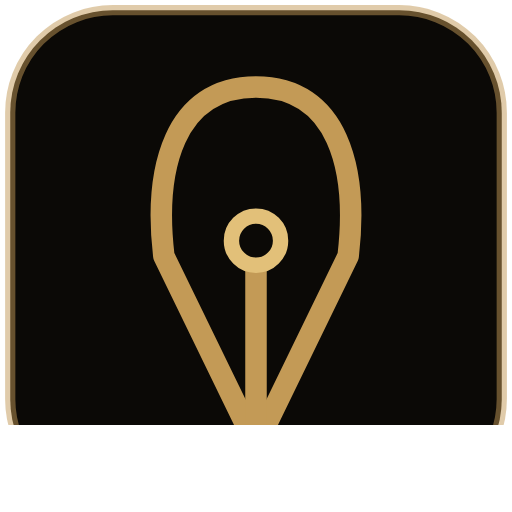
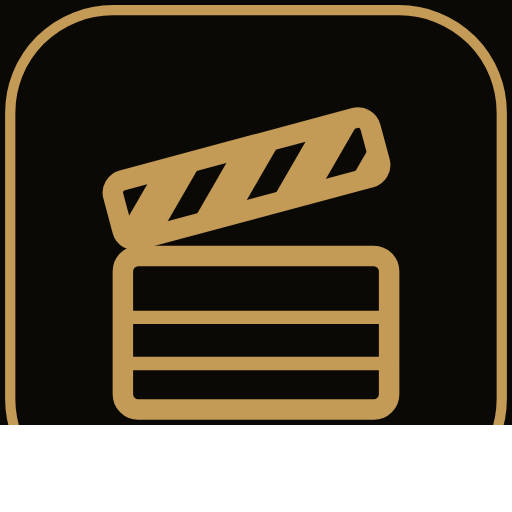
Adopt the clapperboard as nact's seal
The film slate that claps to call 'action!' fits nact better than the pen-nib:
the agent sets up the scene, you call action by signing. Black and gold, in
the nave palette. Updates favicon.svg, assets/nact.svg (hero + OG), the
re-rendered assets/nact.png avatar, and the hero alt text.

Claude-Session: https://claude.ai/code/session_01TVFmiiV2AJZkGfRUtkTSZU

Changed region(s): [[0.1875, 0.125, 0.7812, 0.8438], [0.0, 0.0, 1.0, 0.8438]]

diff --git a/index.html b/index.html
@@ -87,7 +87,7 @@ footer a{color:var(--dim)}
 <div class="wrap">
 
   <header class="hero">
-    <img class="seal" src="/assets/nact.svg" alt="nact seal — a pen nib" width="104" height="104">
+    <img class="seal" src="/assets/nact.svg" alt="nact seal — a film clapperboard" width="104" height="104">
     <h1>nact</h1>
     <div class="tagline">The agent proposes. You enact it by signing.</div>
     <p class="sub">Give an AI agent the ability to act on nostr — it drafts the action, you enact it